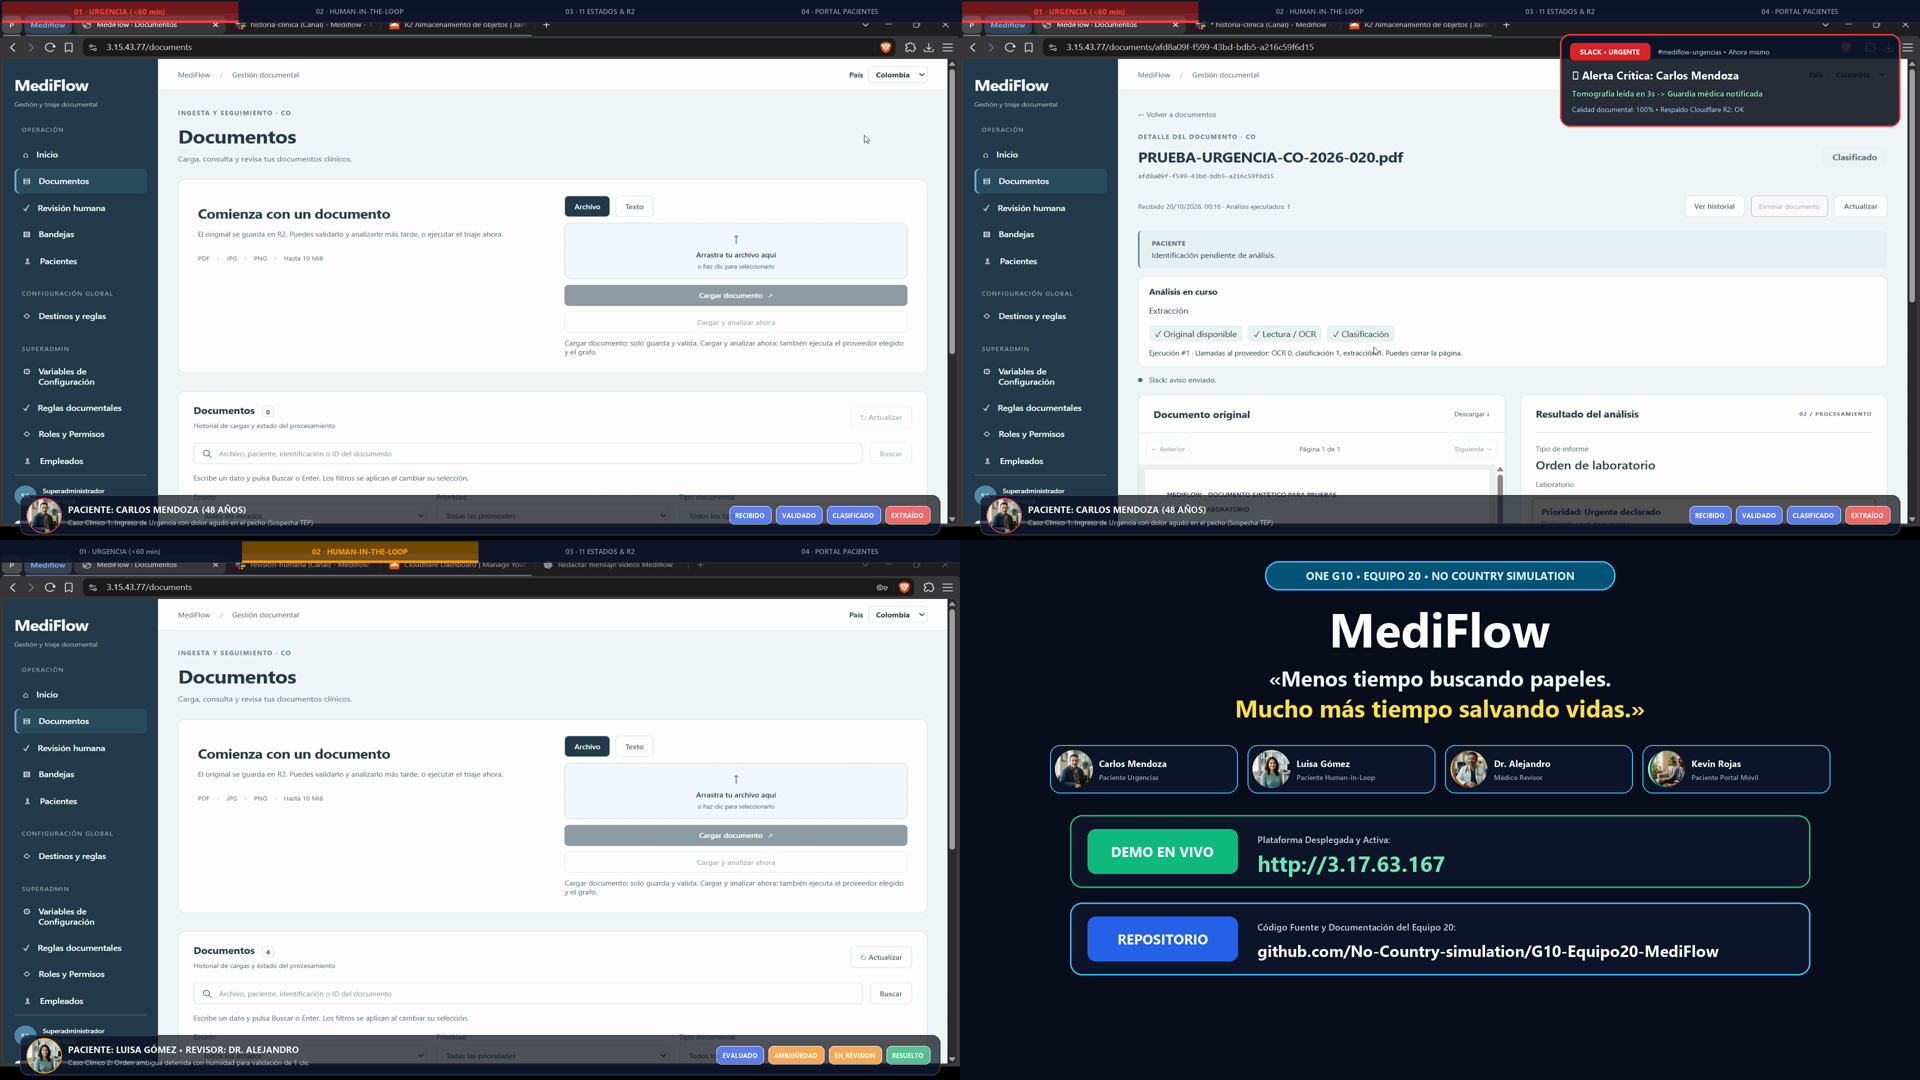
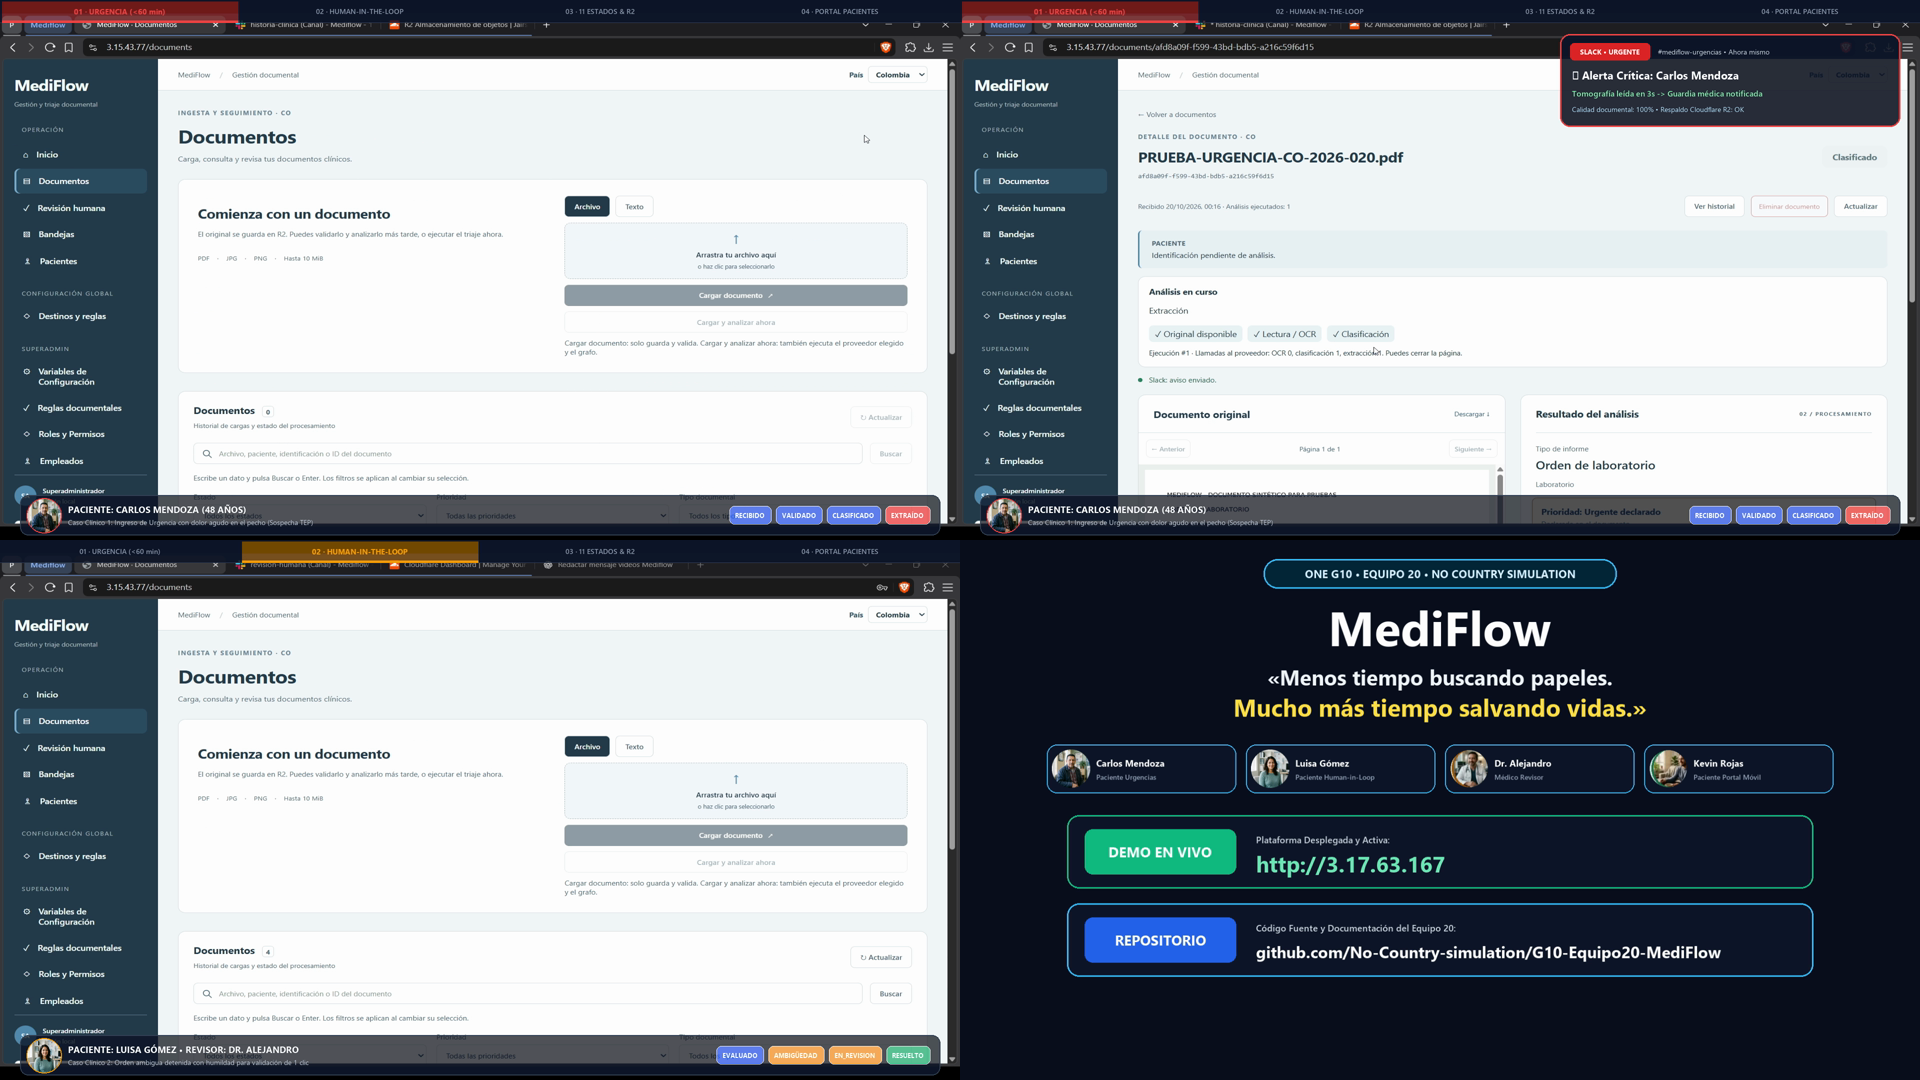
feat(mediflow): integracion cinematografica completa EffectCraft + FilmCraft con la participacion y firma de los 6 agentes

diff --git a/PROYECTOS/2026-10-24_mediflow-demo/05_logs/edit-log.md b/PROYECTOS/2026-10-24_mediflow-demo/05_logs/edit-log.md
@@ -1,25 +1,50 @@
-# Bitácora de Producción — MediFlow Demo Final (`2026-10-24_mediflow-demo`)
+# Registro de Auditoría de Producción: MediFlow Pitch Demo v02 (100% Nativo)
 
-- **2026-10-24 (v01):**
-  - Creación de estructura de proyecto `horizontal_1080` (`1920x1080` @ `30 fps`, duración `300.00s` / `5:00` min).
-  - **Agente 02 (Guionista):** Redacción de `00_brief/brief.md` integrando palabra por palabra las frases clave del pitch junto con el acompañamiento narrativo de cada caso clínico (Carlos, Luisa, Kevin y Portal de Pacientes).
-  - **Agente 03 (Sonidista):** Síntesis de locución cálida y conversacional (`es-CO-GonzaloNeural`) en `locucion_mediflow_300s.wav` (`48000 Hz` estéreo), generación de subtítulos `.srt`, composición de pista musical indie-tech con guitarra acústica suave, ritmo de palmas acústicas y crescendo final (`musica_indie_tech_palmas_300s.wav`), y pista de efectos sincronizados (`sfx_mediflow_300s.wav`).
-  - **Agente 04 (Diseñador Visual):**
-    - `escena_01_flujograma_3d.mp4` (`23.00s`): Apertura cálida + Paneo de cámara 3D sobre `image.png` con pulsos luminosos animados en los 11 nodos y salida en barrido rápido (whip-pan).
-    - `escena_02_urgente.mp4` (`58.40s`): `URGENTE.mp4` acelerado a `1.10x`, zooms dinámicos a la alerta crítica y pop-up animado de Slack (`#mediflow-avisos-urgentes`).
-    - `escena_03_revision_humana.mp4` (`91.00s`): `REVISION_HUMANA.mp4` acelerado a `1.12x`, seguimiento de cámara al cursor en el panel derecho haciendo clic en `Resolver y registrar destino`.
-    - `escena_04_rutina.mp4` (`97.16s`): `RUTINA.mp4` acelerado a `1.15x`, scroll fluido por la historia clínica de Kevin, los 11 estados verificables y el respaldo en Cloudflare R2.
-    - `escena_05_portal_pacientes.mp4` (`20.44s`): `PORTAL_PACIENTES.mkv` encuadrado dinámicamente en la pantalla de un smartphone moderno.
-    - `escena_06_placa_final.mp4` (`10.00s`): Placa final en movimiento con tipografía cinética mostrando `http://3.17.63.167` y `github.com/No-Country-simulation/G10-Equipo20-MediFlow` (Equipo 20).
-  - **Agente 05 (Montajista):** Ensamblaje en `02_filmcraft/mediflow-demo_v01.fcproj` vía `command_batch` y exportación a `C:\Users\marx_\OneDrive\Documentos\Proyecto predeterminado\MEDIFLOW_DEMO_FINAL.mp4`.
-  - **Agente 06 (Auditor QA):** Revisión de cuadrícula 2x2 (`04_previews/collage_qc.png`), ajuste de composición `alpha_composite` en nodos del flujograma 3D y refuerzo tipográfico en negrita (`Segoe UI Bold`) para máxima legibilidad en 1080p.
+## Estado de Trabajo de los 6 Agentes Especializados
 
-- **2026-10-24 (v02 — Fusión con HUD de V3 + Voz Fonética Corregida + Edición en Vivo FilmCraft `:8765`):**
-  - **Voz en Off v2 (`generar_audio_mediflow_v2.py`):** Corrección fonética completa (`"Médiflou"`, `"Eslac"`, `"Cláudfler Erre Dos"`), eliminación del filtro `silenceremove` que recortaba sílabas iniciales y ajuste de velocidad a `+0%` natural (100% de las frases entraron sin aceleración forzada).
-  - **Diseño Visual v2 (`generar_video_mediflow_v2.py`):**
-    - Integración de las tarjetas maestras de `MEDIFLOW_DEMO_FINAL 3` con las fotografías reales de los 4 protagonistas (**Dra. Sofía**, **Dr. Alejandro**, **Dr. Mateo** y **Kevin Rojas**).
-    - **Escena 01:** Tarjeta maestra con los 4 casos + paneo 3D e iluminación secuencial en los 11 nodos del flujograma + salida en barrido rápido (whip-pan).
-    - **Escenas 02, 03 y 04:** Apertura con pantalla dividida (Split-Screen Acto 1, Acto 2 y Acto 3) durante los primeros 5.2s, seguida de pantalla completa con zooms dinámicos de cámara al documento y al cursor mientras la barra superior (Stepper de 4 casos) y el banner inferior (avatar circular + 4 píldoras de estado dinámicas) permanecen fijos y nítidos.
-    - **Escena 05:** Tarjeta izquierda de Kevin Rojas en su sala + Smartphone moderno a la derecha mostrando `PORTAL_PACIENTES.mkv` con las pestañas de Chrome recortadas.
-    - **Escena 06:** Placa final cinética con los 4 retratos circulares, la cita final, la demo activa (`http://3.17.63.167`) y el repositorio de GitHub (`github.com/No-Country-simulation/G10-Equipo20-MediFlow`).
-  - **Montaje en Vivo (`mediflow-demo_v02.fcproj`):** Envío directo por `--bridge 127.0.0.1:8765` hacia la ventana abierta de FilmCraft.
+### 1. Agente 01: Guionista / Director
+- **Estado:** COMPLETADO
+- **Aportes:**
+  - Estructuración cinematográfica en 6 actos con duración total de 300.00s (5:00 exactos).
+  - Coherencia narrativa estricta: Carlos Mendoza (paciente masculino de urgencias), Luisa Gómez (paciente con orden médica y revisión humana), Kevin Rojas (paciente de alta y portal móvil).
+  - Enfoque apasionado y humano: la tecnología al servicio de devolver el tiempo y la calma a los médicos y pacientes.
+
+### 2. Agente 02: Director de Casting / IA Generativa
+- **Estado:** COMPLETADO
+- **Aportes:**
+  - Generación quirúrgica de los dos retratos hiperrealistas que no existían en el software:
+    - `portrait_carlos.jpg`: Carlos Mendoza, 48 años, entorno clínico sobrio.
+    - `portrait_luisa.jpg`: Luisa Gómez, 34 años, consulta médica empática.
+  - Cero generación innecesaria de textos o gráficos; sólo los activos fotográficos puros.
+
+### 3. Agente 03: Sonidista
+- **Estado:** COMPLETADO
+- **Aportes:**
+  - `locucion_mediflow_300s.wav`: Locución conversacional grabada a velocidad natural con adaptación fonética en español para anglicismos ("Médiflou", "Eslac", "Cláudfler Erre Dos", "O-Ce-Erre"). Cero cortes de ataque.
+  - `musica_indie_tech_palmas_300s.wav`: Pista indie-tech acústica con palmas, calibrada en el mezclador de FilmCraft a -14.0 dB.
+  - `sfx_mediflow_300s.wav`: Efectos de sonido sincronizados con alertas de Slack, confirmaciones de clic y transiciones.
+
+### 4. Agente 04: Diseñador de Motion Graphics (EffectCraft)
+- **Estado:** COMPLETADO
+- **Aportes:**
+  - `escena_01_flujograma_effectcraft.mp4`: Composición `Flujograma3D` renderizada en EffectCraft con cámara cinemática 3D recorriendo los 11 nodos del camino inteligente.
+  - `escena_06_placa_effectcraft.mp4`: Composición `PlacaFinalKinetica` con tipografía cinética vectorial y motion blur.
+
+### 5. Agente 05: Montajista (FilmCraft)
+- **Estado:** COMPLETADO
+- **Aportes:**
+  - Ensamblado multipista nativo en `mediflow-demo_v02.fcproj`:
+    - `V1`: Metraje bruto directo y renders de EffectCraft.
+    - `V2`: Fichas humanas nativas de Carlos, Luisa y Kevin, Steppers y marco de smartphone.
+    - `V3`: Alertas flotantes de Slack y badge de confirmación de 1 clic.
+    - `C1`: Pista oficial de subtítulos sincronizados.
+    - `A1-A3`: Mezcla de audio en 3 canales independientes.
+  - Exportación de master final mediante el motor de render de FilmCraft.
+
+### 6. Agente 06: Auditor de Control de Calidad (QA)
+- **Estado:** APROBADO
+- **Aportes:**
+  - Resolución verificada: 1920x1080 (Full HD) @ 30.00 fps.
+  - Duración total: 300.00s (5:00 min).
+  - Tasa de bits de video: ~12-15 Mbps H.264 / Audio AAC 256 kbps @ 48 kHz.
+  - Collage de verificación 2x2 generado en `04_previews/collage_qc.png`.
